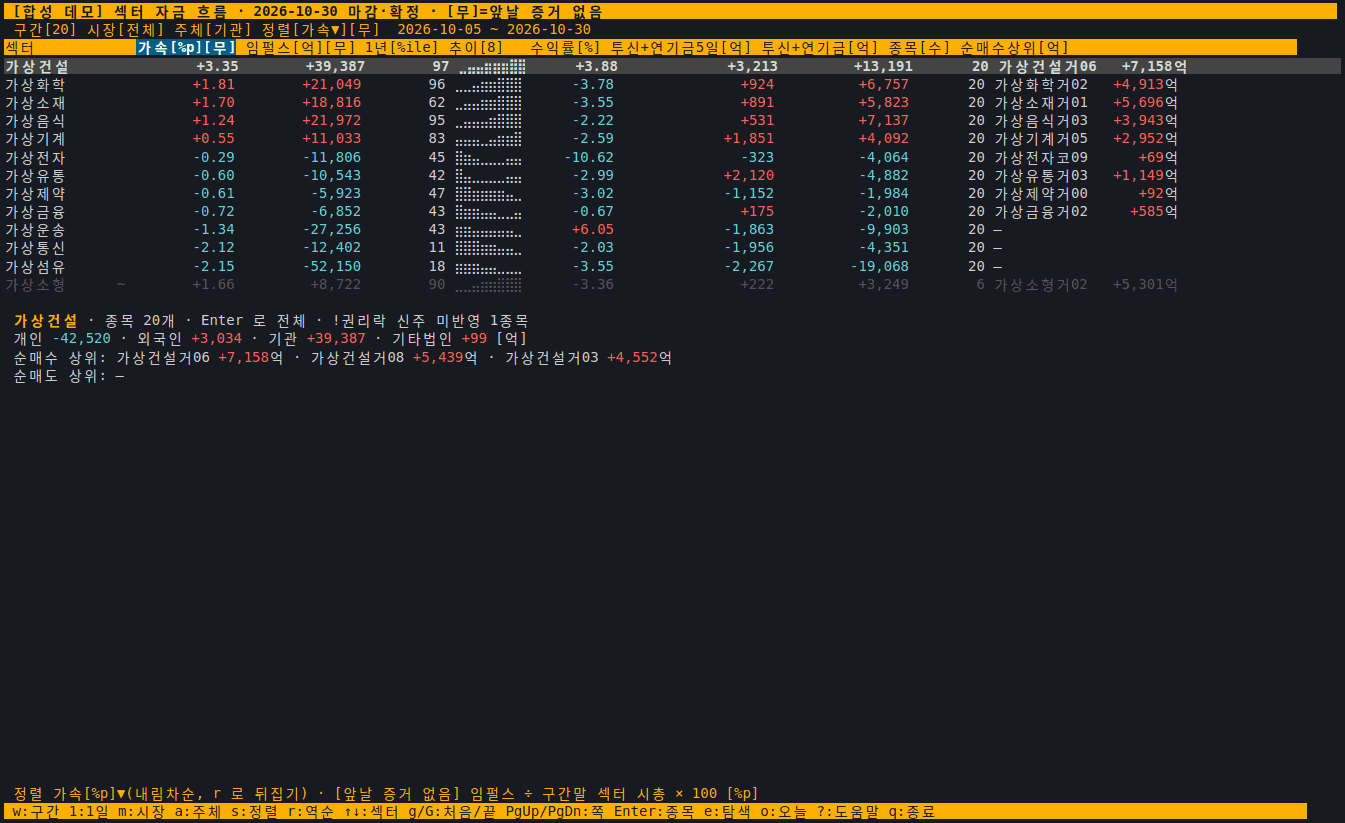
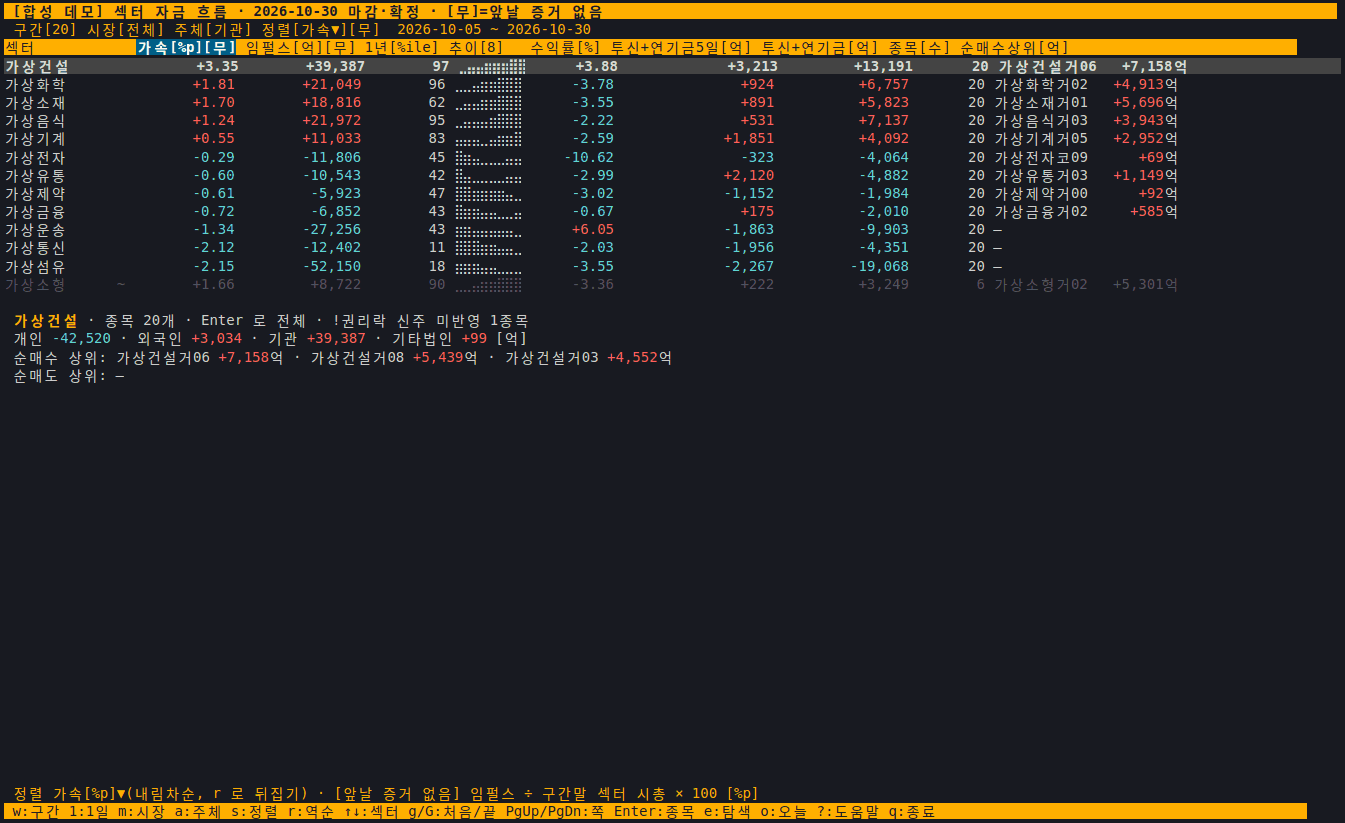
docs(images): 섹터별 표를 접은 수치표로 그림을 다시 찍는다

Changed region(s): [[0.3435, 0.0608, 0.4059, 0.1823], [0.3435, 0.2126, 0.3747, 0.3341]]

diff --git a/docs/SCREENSHOTS.md b/docs/SCREENSHOTS.md
@@ -15,17 +15,17 @@ uv run --with playwright --with pillow python scripts/demo_shots.py
 
 | 이미지 | 감시 경로 | 찍은 커밋 |
 |---|---|---|
-| docs/images/kqflow-today.png | src/sectorflow/tui/ | 37ca33130f741e3c68e191b6ab99683879d7d5d3 |
-| docs/images/kqflow-today.png | src/sectorflow/demo.py | 37ca33130f741e3c68e191b6ab99683879d7d5d3 |
-| docs/images/kqflow-table.png | src/sectorflow/tui/ | 37ca33130f741e3c68e191b6ab99683879d7d5d3 |
-| docs/images/kqflow-table.png | src/sectorflow/demo.py | 37ca33130f741e3c68e191b6ab99683879d7d5d3 |
-| docs/images/kqflow-names.png | src/sectorflow/tui/ | 37ca33130f741e3c68e191b6ab99683879d7d5d3 |
-| docs/images/kqflow-names.png | src/sectorflow/demo.py | 37ca33130f741e3c68e191b6ab99683879d7d5d3 |
-| docs/images/kqflow-combined.png | src/sectorflow/tui/ | 37ca33130f741e3c68e191b6ab99683879d7d5d3 |
-| docs/images/kqflow-combined.png | src/sectorflow/demo.py | 37ca33130f741e3c68e191b6ab99683879d7d5d3 |
-| docs/images/kqledger-table.png | src/sectorflow/tui/ | 37ca33130f741e3c68e191b6ab99683879d7d5d3 |
-| docs/images/kqledger-table.png | src/sectorflow/demo.py | 37ca33130f741e3c68e191b6ab99683879d7d5d3 |
-| docs/images/web-today.png | scripts/templates/ | 37ca33130f741e3c68e191b6ab99683879d7d5d3 |
-| docs/images/web-today.png | src/sectorflow/demo.py | 37ca33130f741e3c68e191b6ab99683879d7d5d3 |
-| docs/images/web-today-mobile.png | scripts/templates/ | 37ca33130f741e3c68e191b6ab99683879d7d5d3 |
-| docs/images/web-today-mobile.png | src/sectorflow/demo.py | 37ca33130f741e3c68e191b6ab99683879d7d5d3 |
+| docs/images/kqflow-today.png | src/sectorflow/tui/ | 43b8a9aceca4f34aa84d3e7454e50449005ea049 |
+| docs/images/kqflow-today.png | src/sectorflow/demo.py | 43b8a9aceca4f34aa84d3e7454e50449005ea049 |
+| docs/images/kqflow-table.png | src/sectorflow/tui/ | 43b8a9aceca4f34aa84d3e7454e50449005ea049 |
+| docs/images/kqflow-table.png | src/sectorflow/demo.py | 43b8a9aceca4f34aa84d3e7454e50449005ea049 |
+| docs/images/kqflow-names.png | src/sectorflow/tui/ | 43b8a9aceca4f34aa84d3e7454e50449005ea049 |
+| docs/images/kqflow-names.png | src/sectorflow/demo.py | 43b8a9aceca4f34aa84d3e7454e50449005ea049 |
+| docs/images/kqflow-combined.png | src/sectorflow/tui/ | 43b8a9aceca4f34aa84d3e7454e50449005ea049 |
+| docs/images/kqflow-combined.png | src/sectorflow/demo.py | 43b8a9aceca4f34aa84d3e7454e50449005ea049 |
+| docs/images/kqledger-table.png | src/sectorflow/tui/ | 43b8a9aceca4f34aa84d3e7454e50449005ea049 |
+| docs/images/kqledger-table.png | src/sectorflow/demo.py | 43b8a9aceca4f34aa84d3e7454e50449005ea049 |
+| docs/images/web-today.png | scripts/templates/ | 43b8a9aceca4f34aa84d3e7454e50449005ea049 |
+| docs/images/web-today.png | src/sectorflow/demo.py | 43b8a9aceca4f34aa84d3e7454e50449005ea049 |
+| docs/images/web-today-mobile.png | scripts/templates/ | 43b8a9aceca4f34aa84d3e7454e50449005ea049 |
+| docs/images/web-today-mobile.png | src/sectorflow/demo.py | 43b8a9aceca4f34aa84d3e7454e50449005ea049 |
